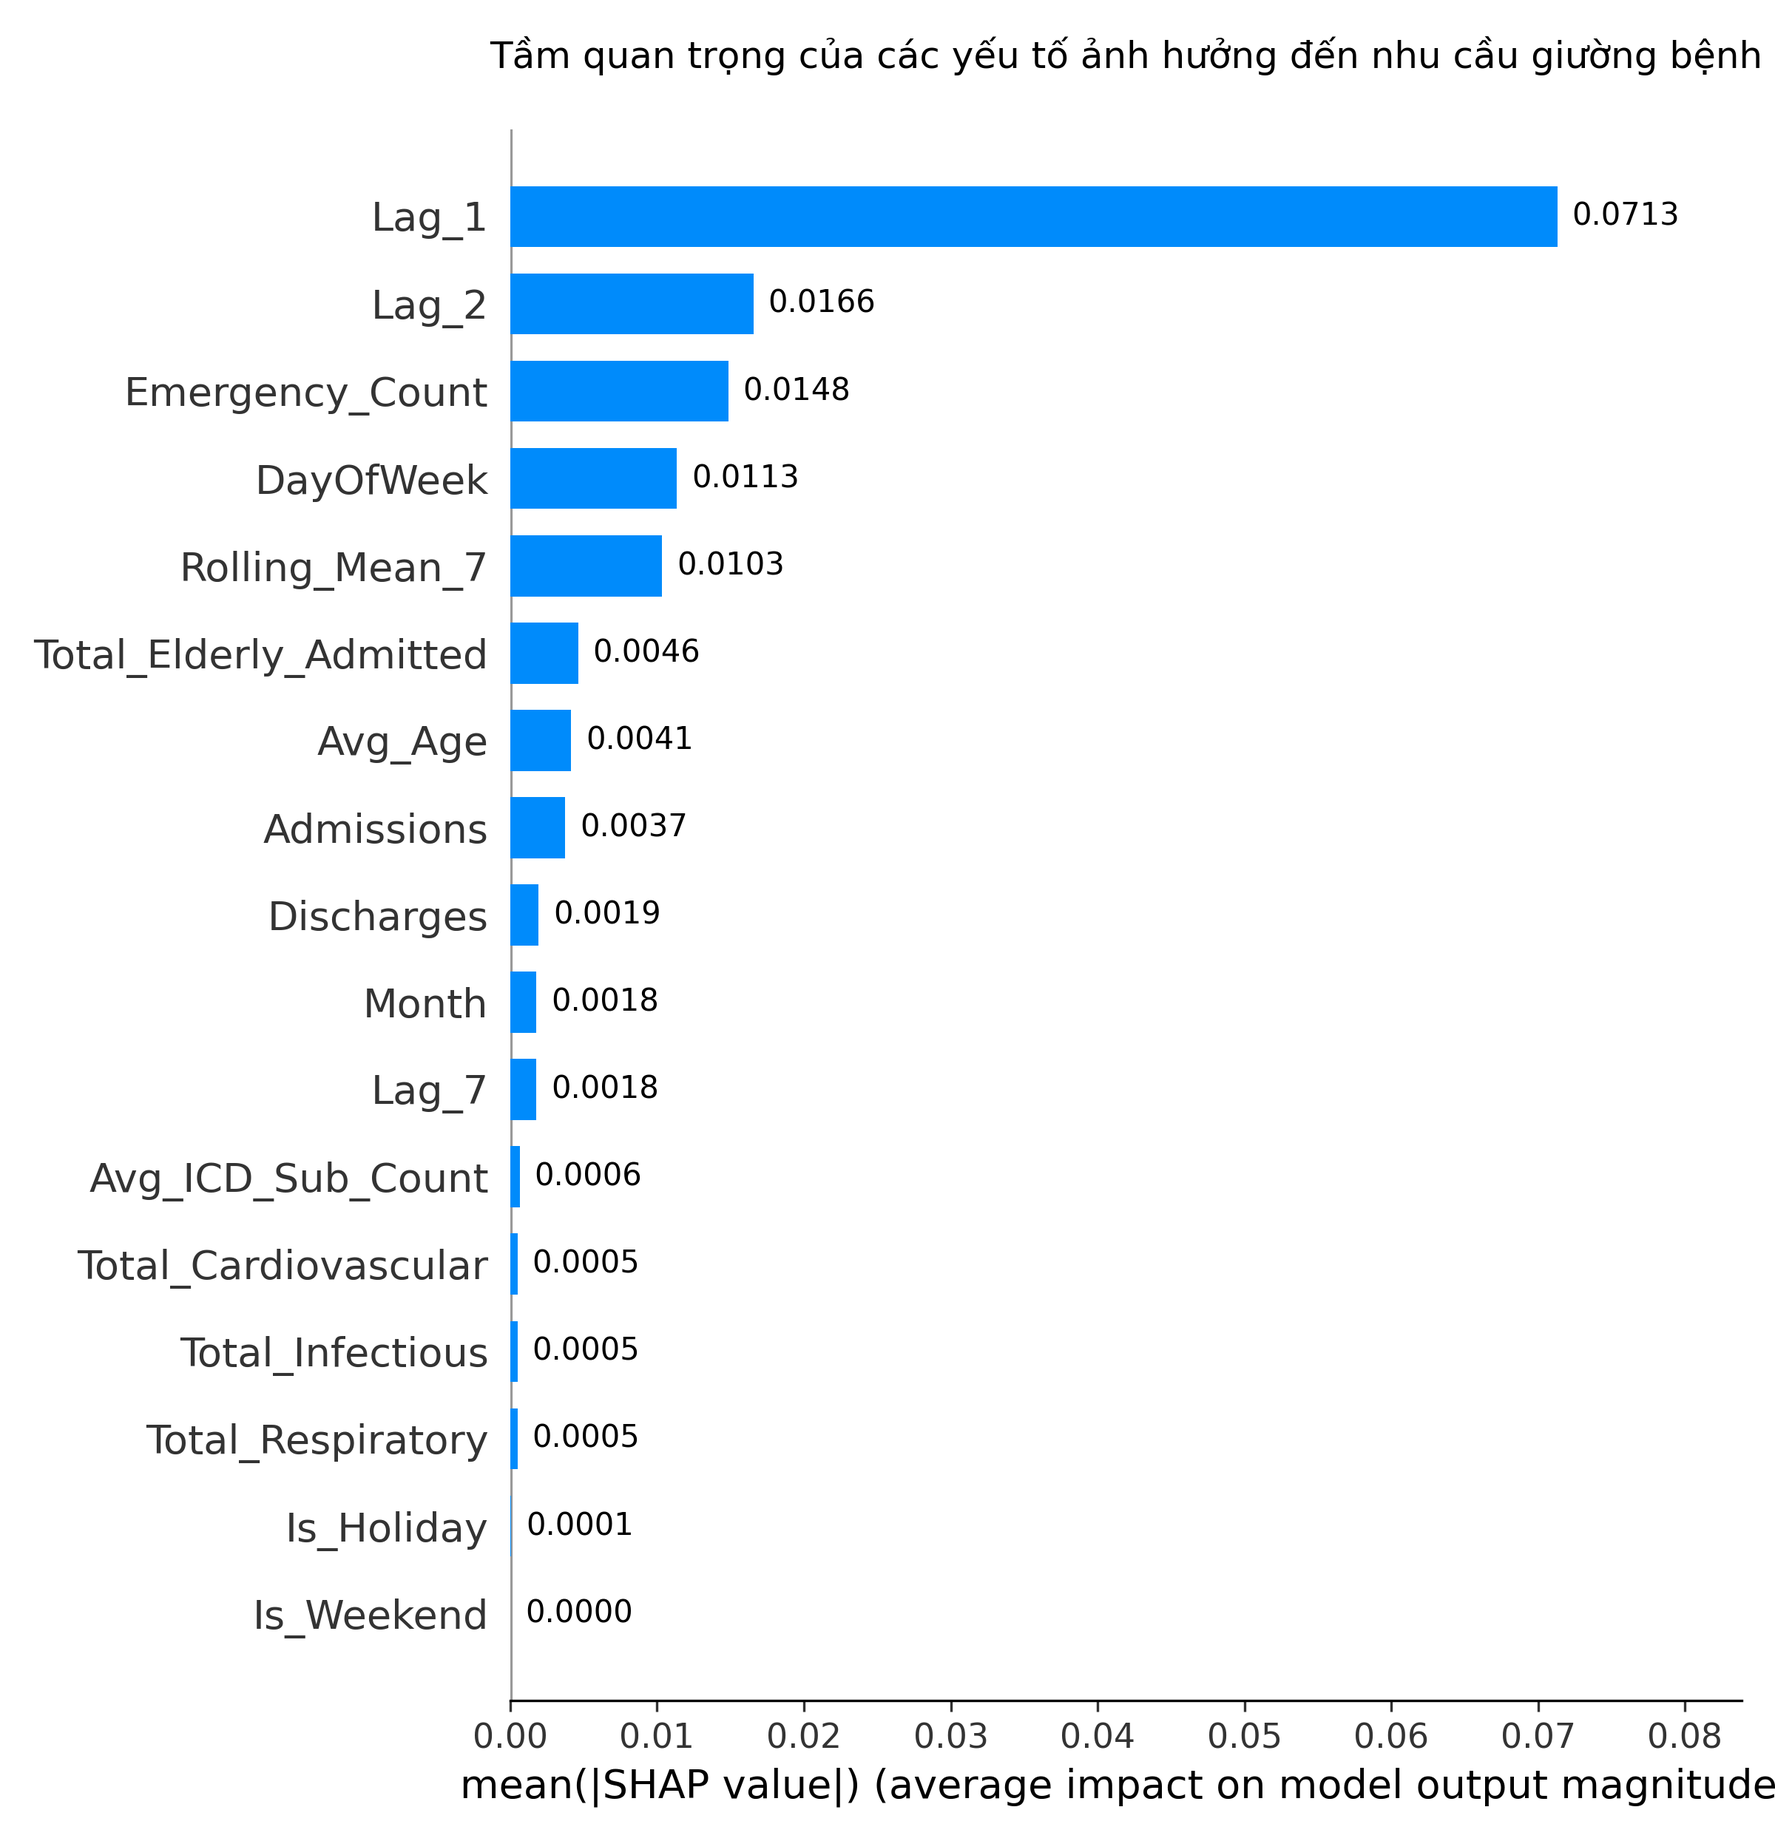
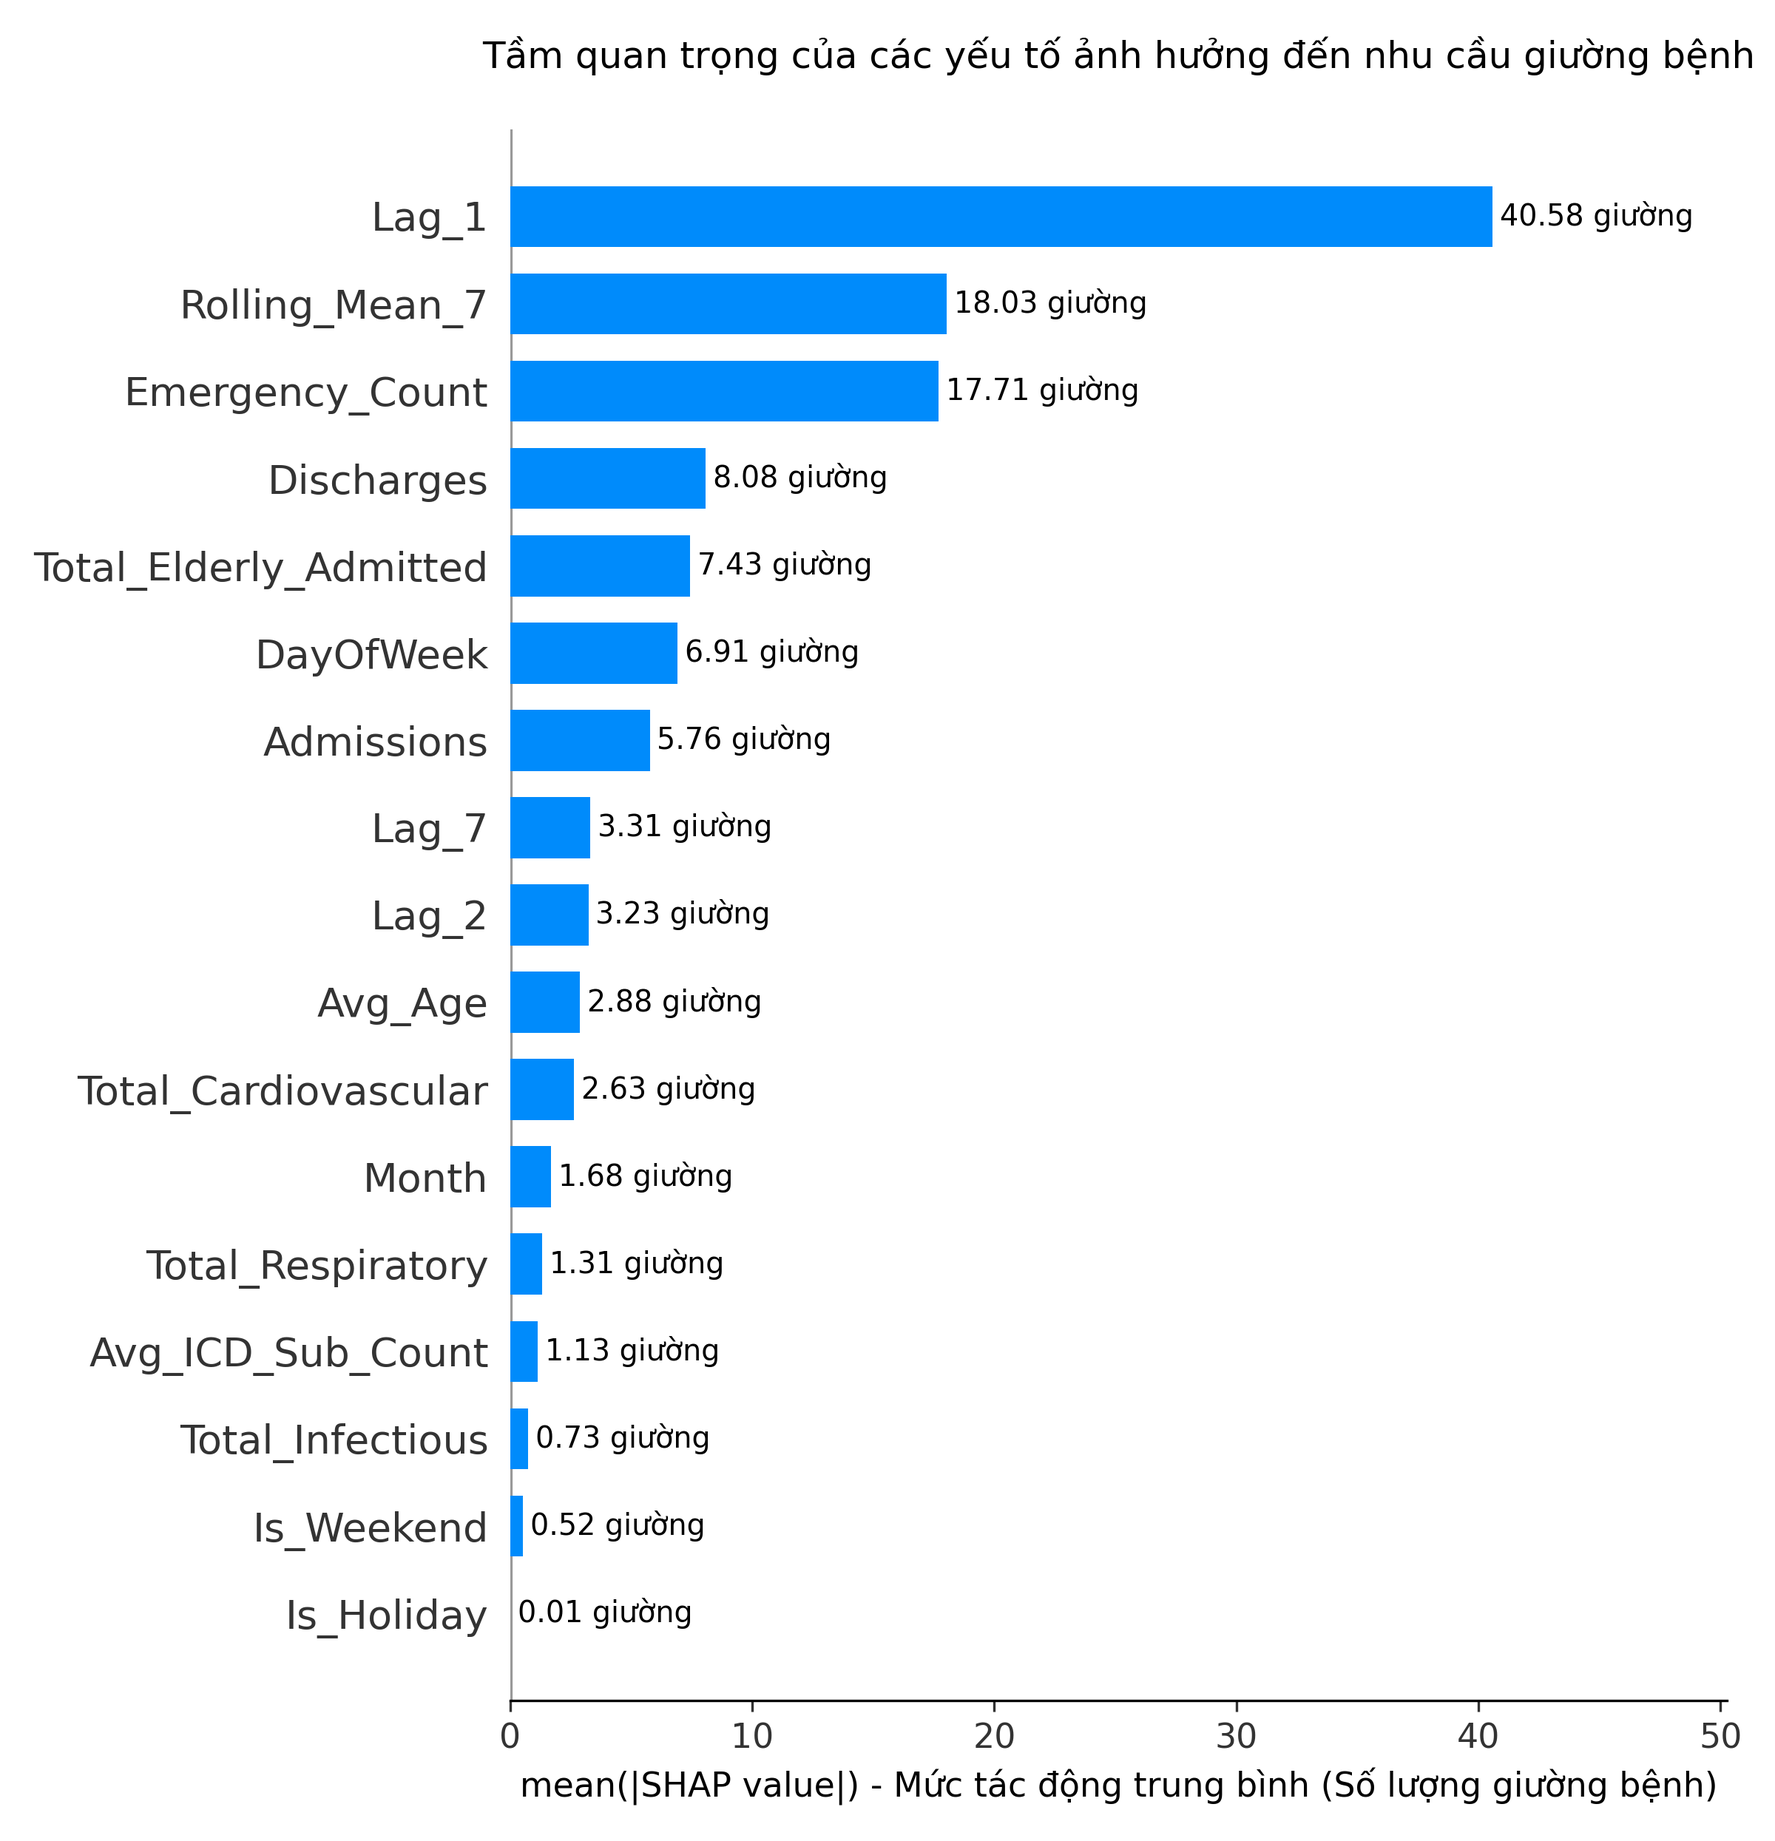
DATN Project 1

diff --git a/run_pipeline.py b/run_pipeline.py
@@ -59,6 +59,10 @@ raw_df['Is_Respiratory'] = (raw_df['ICD_Main_Letter'] == 'J').astype(int)
 raw_df['Is_Cardiovascular'] = (raw_df['ICD_Main_Letter'] == 'I').astype(int)
 raw_df['Is_Infectious'] = (raw_df['ICD_Main_Letter'].isin(['A', 'B'])).astype(int)
 
+# 1.2. Lọc hồ sơ ảo (< 15 phút) và tổng hợp chuỗi thời gian công suất giường (Census)
+raw_df['Duration_Hours'] = (raw_df['Discharge_Time'] - raw_df['Admission_Time']).dt.total_seconds() / 3600.0
+df_clean = raw_df[(raw_df['Duration_Hours'] >= 0.25) & (raw_df['Discharge_Time'] <= '2026-08-28 23:59:59')].copy()
+
 daily_clinical_features = raw_df.groupby('Date').agg(
     Avg_ICD_Sub_Count=('ICD_Sub_Count', 'mean'),
     Total_Elderly_Admitted=('Is_Elderly', 'sum'),
@@ -67,15 +71,13 @@ daily_clinical_features = raw_df.groupby('Date').agg(
     Total_Infectious=('Is_Infectious', 'sum')
 ).reset_index()
 
-# 1.2. Lọc hồ sơ ảo (< 15 phút) và tổng hợp chuỗi thời gian công suất giường (Census)
-raw_df['Duration_Hours'] = (raw_df['Discharge_Time'] - raw_df['Admission_Time']).dt.total_seconds() / 3600.0
+
 
 # Lưu nhật ký hồ sơ ảo (< 15 phút) để đối chiếu vận hành
 df_removed = raw_df[raw_df['Duration_Hours'] < 0.25].copy()
 df_removed.to_csv('removed_cases_log.csv', index=False, encoding='utf-8-sig')
 
 # Giữ lại các ca hợp lệ (>= 15 phút, chốt sổ xuất viện tại thời điểm trích xuất 28/08/2026)
-df_clean = raw_df[(raw_df['Duration_Hours'] >= 0.25) & (raw_df['Discharge_Time'] <= '2026-08-28 23:59:59')].copy()
 
 min_date = df_clean['Admission_Time'].min().normalize()
 max_date = pd.to_datetime('2026-08-27')
@@ -212,7 +214,7 @@ print(f"--> KẾT QUẢ LSTM TRÊN TẬP TEST: MAE = {mae:.2f} giường | RMSE 
 plt.figure(figsize=(8, 6))
 plt.plot(history.history['loss'], label='Sai số tập Train')
 plt.plot(history.history['val_loss'], label='Sai số tập Validation')
-plt.title('Quá trình huấn luyện LSTM')
+plt.title('Quá trình huấn luyện LSTM', pad=25)
 plt.xlabel('Vòng lặp (Epochs)')
 plt.ylabel('Sai số (MSE Scale)')
 plt.legend()
@@ -224,7 +226,7 @@ plt.close()
 plt.figure(figsize=(8, 6))
 plt.plot(dates_test[-90:], Y_test_real[-90:], label='Thực tế', marker='o', linestyle='dashed')
 plt.plot(dates_test[-90:], predictions_real[-90:], label='Dự báo (LSTM)', marker='x', alpha=0.8)
-plt.title('Dự báo vs Thực tế')
+plt.title('Dự báo so với Thực tế (90 ngày cuối tập Kiểm thử: 03/05/2026 - 31/07/2026)', pad=25)
 plt.xlabel('Thời gian')
 plt.ylabel('Số lượng giường bệnh')
 plt.gca().xaxis.set_major_formatter(mdates.DateFormatter('%d/%m/%Y'))
@@ -274,21 +276,24 @@ plt.savefig('figures/Hinh_3_Compare_ARIMA_LSTM.png', dpi=300)
 plt.close()
 
 # =====================================================================
-# BƯỚC 5: MÔ HÌNH ĐẠI DIỆN XGBOOST (SURROGATE MODEL) & XUẤT HÌNH 4
+# BƯỚC 5: MÔ HÌNH ĐẠI DIỆN XGBOOST TRÊN ĐƠN VỊ GIƯỜNG THỰC TẾ (A2, A3, A4, A5)
 # =====================================================================
-print("\nBƯỚC 5: Huấn luyện mô hình đại diện toàn cục XGBoost (Chống rò rỉ dữ liệu)...")
+print("\nBƯỚC 5: Huấn luyện Surrogate XGBoost trên nhãn giả đơn vị GIƯỜNG và đặc trưng GỐC...")
 
-# 1. Sinh nhãn giả (Pseudo-labels) từ mạng LSTM cho cả 3 tập Train, Validation và Test
-Y_train_pseudo = model.predict(X_train_lstm, verbose=0).ravel()
-Y_val_pseudo   = model.predict(X_val_lstm,   verbose=0).ravel()
-Y_test_pseudo  = model.predict(X_test_lstm,  verbose=0).ravel()
+# 1. Sinh nhãn giả từ LSTM và đảo chuẩn hóa (inverse_transform) về đơn vị GIƯỜNG BỆNH
+Y_train_pseudo_beds = scaler_Y.inverse_transform(model.predict(X_train_lstm, verbose=0)).ravel()
+Y_val_pseudo_beds   = scaler_Y.inverse_transform(model.predict(X_val_lstm,   verbose=0)).ravel()
+Y_test_pseudo_beds  = scaler_Y.inverse_transform(model.predict(X_test_lstm,  verbose=0)).ravel()
 
-# 2. Cắt bỏ 7 ngày đầu (window = 7) của dữ liệu 2D để đồng bộ kích thước với chuỗi LSTM
-X_train_xgb = X_train_scaled[window:]
-X_val_xgb   = X_val_scaled[window:]
-X_test_xgb  = X_test_scaled[window:]
+# 2. Lấy đặc trưng ở ĐƠN VỊ GỐC (số ca, tuổi, thứ...) tại bước cuối cửa sổ trượt (t-1)
+X_train_xgb_raw = train_df[X_columns].iloc[window - 1 : -1].reset_index(drop=True).round(2)
+X_val_xgb_raw   = val_df[X_columns].iloc[window - 1 : -1].reset_index(drop=True).round(2)
+X_test_xgb_raw  = test_df[X_columns].iloc[window - 1 : -1].reset_index(drop=True).round(2)
 
-# 3. Khởi tạo XGBRegressor (Chuẩn XGBoost >= 2.0: đặt early_stopping_rounds trong constructor)
+assert len(X_train_xgb_raw) == len(Y_train_pseudo_beds), "Lỗi lệch dòng tập Train!"
+assert len(X_val_xgb_raw)   == len(Y_val_pseudo_beds),   "Lỗi lệch dòng tập Validation!"
+assert len(X_test_xgb_raw)  == len(Y_test_pseudo_beds) == len(dates_test), "Lỗi lệch dòng tập Test!"
+
 xgb_model = xgb.XGBRegressor(
     n_estimators=300,
     learning_rate=0.05,
@@ -300,37 +305,32 @@ xgb_model = xgb.XGBRegressor(
     random_state=SEED
 )
 
-# 4. Huấn luyện và giám sát Dừng sớm độc lập trên tập Validation (X_val_xgb, Y_val_pseudo)
+# Huấn luyện trên đơn vị giường và dừng sớm độc lập trên tập Validation
 xgb_model.fit(
-    X_train_xgb, Y_train_pseudo,
-    eval_set=[(X_train_xgb, Y_train_pseudo), (X_val_xgb, Y_val_pseudo)],
+    X_train_xgb_raw, Y_train_pseudo_beds,
+    eval_set=[(X_train_xgb_raw, Y_train_pseudo_beds), (X_val_xgb_raw, Y_val_pseudo_beds)],
     verbose=False
 )
 
-# 5. Đánh giá Độ trung thành (Fidelity R2) trên cả 3 tập Train, Validation, Test
-xgb_pred_train = xgb_model.predict(X_train_xgb)
-xgb_pred_val   = xgb_model.predict(X_val_xgb)
-xgb_pred_test  = xgb_model.predict(X_test_xgb)
+xgb_pred_train = xgb_model.predict(X_train_xgb_raw)
+xgb_pred_val   = xgb_model.predict(X_val_xgb_raw)
+xgb_pred_test  = xgb_model.predict(X_test_xgb_raw)
 
-fidelity_train = r2_score(Y_train_pseudo, xgb_pred_train)
-fidelity_val   = r2_score(Y_val_pseudo,   xgb_pred_val)
-fidelity_test  = r2_score(Y_test_pseudo,  xgb_pred_test)
+fidelity_train = r2_score(Y_train_pseudo_beds, xgb_pred_train)
+fidelity_val   = r2_score(Y_val_pseudo_beds,   xgb_pred_val)
+fidelity_test  = r2_score(Y_test_pseudo_beds,  xgb_pred_test)
 
-print("--- ĐÁNH GIÁ ĐỘ TRUNG THÀNH (FIDELITY R2) CỦA MÔ HÌNH ĐẠI DIỆN XGBOOST ---")
-print(f"Số cây tối ưu (best_iteration): {xgb_model.best_iteration}")
-print(f"1. Tập Huấn luyện (Train set)      : R2 = {fidelity_train:.4f}")
-print(f"2. Tập Kiểm định (Validation set)  : R2 = {fidelity_val:.4f}")
-print(f"3. Tập Kiểm thử (Test set - Độc lập): R2 = {fidelity_test:.4f}")
+print(f"--> Fidelity R2 | Train: {fidelity_train:.4f} | Val: {fidelity_val:.4f} | Test: {fidelity_test:.4f}")
 
-# --- Xuất Hình 4: Biểu đồ phân tán (Scatter Plot) đánh giá độ trung thành ---
+# --- Xuất Hình 4: Biểu đồ phân tán (Scatter Plot) theo đơn vị giường bệnh ---
 plt.figure(figsize=(6.5, 6.5))
-plt.scatter(Y_test_pseudo, xgb_predictions, color='#9B59B6', edgecolor='white', s=45, alpha=0.85)
-min_val = min(Y_test_pseudo.min(), xgb_predictions.min())
-max_val = max(Y_test_pseudo.max(), xgb_predictions.max())
+plt.scatter(Y_test_pseudo_beds, xgb_pred_test, color='#9B59B6', edgecolor='white', s=45, alpha=0.85)
+min_val = min(Y_test_pseudo_beds.min(), xgb_pred_test.min())
+max_val = max(Y_test_pseudo_beds.max(), xgb_pred_test.max())
 plt.plot([min_val, max_val], [min_val, max_val], 'r--', linewidth=2, label='Đường chuẩn y=x')
-plt.title(f'Độ trung thành của XGBoost so với LSTM ($R^2 = {fidelity_score:.4f}$)')
-plt.xlabel('Dự báo của mạng học sâu LSTM (Pseudo-labels)')
-plt.ylabel('Dự báo của XGBoost (Surrogate Model)')
+plt.title(f'Độ trung thành của XGBoost so với LSTM ($R^2 = {fidelity_test:.4f}$)',pad=25)
+plt.xlabel('Dự báo của mạng học sâu LSTM (Số giường bệnh)')
+plt.ylabel('Dự báo của XGBoost Surrogate (Số giường bệnh)')
 plt.grid(True, linestyle='--', alpha=0.5)
 plt.legend()
 plt.tight_layout()
@@ -338,40 +338,39 @@ plt.savefig('figures/Hinh_4_XGBoost_Fidelity_Scatter.png', dpi=300)
 plt.close()
 
 # =====================================================================
-# BƯỚC 6: GIẢI THÍCH MÔ HÌNH VỚI TREESHAP & XUẤT HÌNH 5, 6, 7, 8, 9
+# BƯỚC 6: TREESHAP THEO ĐƠN VỊ GIƯỜNG BỆNH & ĐẶC TRƯNG GỐC (HÌNH 5 -> 9)
 # =====================================================================
-print("\nBƯỚC 6: Trích xuất giá trị SHAP và vẽ biểu đồ giải thích (Hình 5 -> Hình 9)...")
-feature_names = X_columns
-X_test_df = pd.DataFrame(X_test_xgb, columns=feature_names)
-
+print("\nBƯỚC 6: Xuất Hình 5 -> Hình 9 theo đơn vị GIƯỜNG BỆNH và giá trị đặc trưng GỐC...")
 explainer = shap.TreeExplainer(xgb_model)
-shap_values = explainer.shap_values(X_test_df)
+shap_values_beds = explainer.shap_values(X_test_xgb_raw)
 
-# --- Xuất Hình 5: SHAP Feature Importance (Bar Plot) ---
+# --- Xuất Hình 5: SHAP Feature Importance (Đơn vị: Giường bệnh) ---
 plt.figure(figsize=(10, 8))
-shap.summary_plot(shap_values, X_test_df, plot_type="bar", show=False)
+shap.summary_plot(shap_values_beds, X_test_xgb_raw, plot_type="bar", show=False)
+plt.xlabel("mean(|SHAP value|) - Mức tác động trung bình (Số lượng giường bệnh)", fontsize=11)
 ax = plt.gca()
 for patch in ax.patches:
     w = patch.get_width()
     if w > 0:
-        ax.text(w + 0.001, patch.get_y() + patch.get_height() / 2, f'{w:.4f}',
-                ha='left', va='center', fontsize=10, color='black')
+        ax.text(w + 0.3, patch.get_y() + patch.get_height() / 2, f'{w:.2f} giường',
+                ha='left', va='center', fontsize=9.5, color='black')
 plt.title("Tầm quan trọng của các yếu tố ảnh hưởng đến nhu cầu giường bệnh", pad=20)
 plt.margins(y=0.02)
-plt.xlim(right=ax.get_xlim()[1] * 1.12)
+plt.xlim(right=ax.get_xlim()[1] * 1.18)
 plt.tight_layout()
 plt.savefig('figures/Hinh_5_SHAP_Feature_Importance.png', dpi=300)
 plt.close()
 
-# --- Xuất Hình 6: SHAP Beeswarm Plot ---
+# --- Xuất Hình 6: SHAP Beeswarm Plot (Đơn vị: Giường bệnh) ---
 plt.figure(figsize=(12, 8))
-shap.summary_plot(shap_values, X_test_df, show=False)
-plt.title("Biểu đồ bầy đàn SHAP: Phân tích chiều tác động (Tăng/Giảm)")
+shap.summary_plot(shap_values_beds, X_test_xgb_raw, show=False)
+plt.xlabel("Giá trị SHAP (Mức độ làm Tăng/Giảm số lượng giường bệnh)")
+plt.title("Biểu đồ bầy đàn SHAP: Phân tích chiều tác động (Đơn vị: Giường bệnh)")
 plt.tight_layout()
 plt.savefig('figures/Hinh_6_SHAP_Beeswarm.png', dpi=300)
 plt.close()
 
-# --- Xuất Hình 7, 8, 9: SHAP Waterfall cho 3 ngày điển hình trong tuần ---
+# --- Xuất Hình 7, 8, 9: SHAP Waterfall hiển thị ĐƠN VỊ GIƯỜNG và ĐẶC TRƯNG GỐC ---
 dates_test_dt = pd.to_datetime(dates_test)
 waterfall_configs = [
     ('2026-07-12', 'Chủ nhật', 'Hinh_7_SHAP_Waterfall_2026_07_12.png'),
@@ -379,26 +378,50 @@ waterfall_configs = [
     ('2026-07-17', 'Thứ Sáu',  'Hinh_9_SHAP_Waterfall_2026_07_17.png')
 ]
 
-base_val = explainer.expected_value
-if isinstance(base_val, (list, np.ndarray)):
-    base_val = float(np.squeeze(base_val))
+base_val_beds = float(np.squeeze(explainer.expected_value))
 
 for date_str, day_name, fig_name in waterfall_configs:
     target_dt = pd.to_datetime(date_str)
     idx_array = np.where(dates_test_dt == target_dt)[0]
     if len(idx_array) > 0:
-        idx = idx_array[0]
+        idx = int(idx_array[0])
         plt.figure(figsize=(10, 6))
         explanation = shap.Explanation(
-            values=shap_values[idx],
-            base_values=base_val,
-            data=X_test_df.iloc[idx],
-            feature_names=feature_names
+            values=shap_values_beds[idx],
+            base_values=base_val_beds,
+            data=X_test_xgb_raw.iloc[idx],
+            feature_names=X_columns
         )
         shap.waterfall_plot(explanation, show=False)
-        plt.title(f"Giải thích cục bộ: {day_name} - Ngày {target_dt.strftime('%d/%m/%Y')}")
+        plt.title(f"Giải thích cục bộ (Đơn vị: Giường): {day_name} - Ngày {target_dt.strftime('%d/%m/%Y')}", pad=25)
         plt.tight_layout()
         plt.savefig(f'figures/{fig_name}', dpi=300)
         plt.close()
+
+
+# --- Xuất Bảng 4.1: Thống kê giá trị gốc và SHAP trung bình theo Thứ trong tuần (Yêu cầu A7) ---
+dow_names = {0: 'Thứ Hai', 1: 'Thứ Ba', 2: 'Thứ Tư', 3: 'Thứ Năm', 4: 'Thứ Sáu', 5: 'Thứ Bảy', 6: 'Chủ nhật'}
+df_dow_analysis = test_df.iloc[window:].reset_index(drop=True)[
+    ['DayOfWeek', 'Census', 'Admissions', 'Discharges', 'Emergency_Count', 'Total_Elderly_Admitted']
+].copy()
+
+shap_df_beds = pd.DataFrame(shap_values_beds, columns=[f'SHAP_{c}' for c in X_columns])
+df_dow_full = pd.concat([df_dow_analysis, shap_df_beds], axis=1)
+
+dow_report = df_dow_full.groupby('DayOfWeek').agg(
+    N_Days=('Census', 'count'),
+    Census_Mean=('Census', 'mean'),
+    Admissions_Mean=('Admissions', 'mean'),
+    Discharges_Mean=('Discharges', 'mean'),
+    Emergency_Mean=('Emergency_Count', 'mean'),
+    SHAP_Lag1_Mean=('SHAP_Lag_1', 'mean'),
+    SHAP_DayOfWeek_Mean=('SHAP_DayOfWeek', 'mean'),
+    SHAP_Emergency_Mean=('SHAP_Emergency_Count', 'mean'),
+    SHAP_Discharges_Mean=('SHAP_Discharges', 'mean')
+).round(2)
+dow_report.index = [dow_names[i] for i in dow_report.index]
+dow_report.to_csv('figures/Bang_4_1_Thong_Ke_SHAP_Theo_Thu.csv', encoding='utf-8-sig')
+print("\nĐã xuất Bảng 4.1 (Thống kê SHAP theo Thứ trong tuần) trên toàn tập Kiểm thử (193 ngày):")
+print(dow_report.to_string())
 
 print("\nHOÀN TẤT TOÀN BỘ PIPELINE! Tất cả 9 hình ảnh đã được lưu trong thư mục 'figures/'.")
